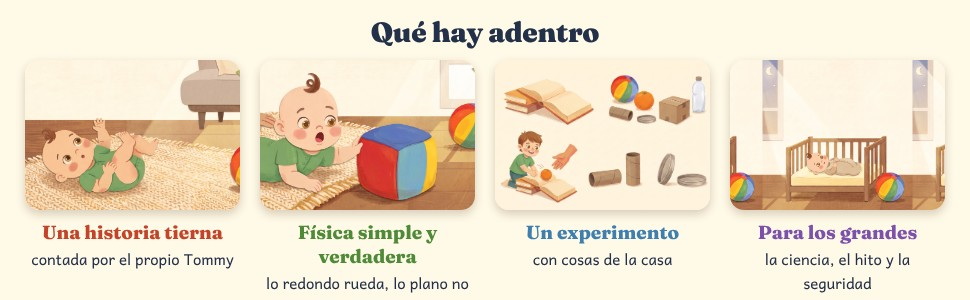
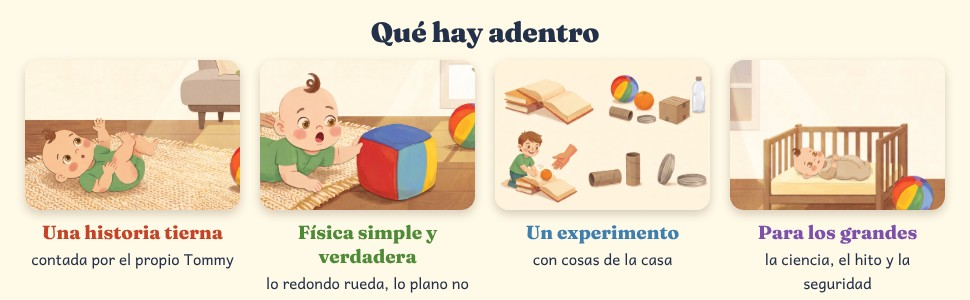
Contenido A+ de los libros 2 y 3 en inglés: imágenes y textos
Claude-Session: https://claude.ai/code/session_01D1pUKWwo8J3jsyg297Aijq

Changed region(s): [[0.7423, 0.18, 0.9897, 0.72]]

diff --git a/maqueta/aplus.py b/maqueta/aplus.py
@@ -1,7 +1,7 @@
 #!/usr/bin/env python3
-"""Imágenes para el contenido A+ de Amazon (libro 1), en inglés y en español neutro.
+"""Imágenes para el contenido A+ de Amazon de cada libro (inglés y español neutro).
 Arma cada imagen en HTML y la saca con el navegador al tamaño exacto que pide Amazon.
-Uso: python3 maqueta/aplus.py → kdp/aplus/libro1-<lang>-*.jpg
+Uso: python3 maqueta/aplus.py [N-lang ...] (sin nada: todos) → kdp/aplus/libroN-<lang>-*.jpg
 Las tapas de la serie salen de los PDF de tapa (kdp/aplus/tapas/libroN-<lang>.jpg)."""
 import html, subprocess, json
 from pathlib import Path
@@ -15,8 +15,8 @@ e = html.escape
 COLS = ["#D9452B", "#EE8A2A", "#E9B21C", "#5E9E44", "#4FA3D9", "#8A5CB8"]
 FUENTES = '<link href="https://fonts.googleapis.com/css2?family=Andika:wght@400;700&family=Fraunces:opsz,wght@9..144,700;9..144,800;9..144,900&display=swap" rel="stylesheet">'
 
-T = {
-    "en": {
+LIBROS = {
+    (1, "en"): {
         "serie": "I Grow, I Discover · Book 1",
         "titulo": "Tommy Learns to Roll Over",
         "lema": "Big science for little ones",
@@ -33,7 +33,7 @@ T = {
         "libros": ["Roll Over", "Sit Up", "Crawl", "Stand Up"],
         "mas": "More books coming soon",
     },
-    "es": {
+    (1, "es"): {
         "serie": "Así crezco, así descubro · Libro 1",
         "titulo": "Tommy aprende a girar",
         "lema": "Gran ciencia para los más pequeños",
@@ -52,6 +52,26 @@ T = {
     },
 }
 
+COMUN_EN = {"lema": "Big science for little ones", "edad": "Ages 4–7 · Read aloud", "adentro_t": "What's inside",
+            "serie_t": "Follow Tommy as he grows", "serie_b": "One milestone, one physics idea and one math idea in every book.",
+            "libros": ["Roll Over", "Sit Up", "Crawl", "Stand Up"], "mas": "More books coming soon"}
+LIBROS[(2, "en")] = {**COMUN_EN,
+    "serie": "I Grow, I Discover · Book 2", "titulo": "Tommy Learns to Sit Up",
+    "bajada": "A read-aloud picture book about sitting up for the first time, and the secret of balance.",
+    "cuadros": [("l2-d04-v1.jpg", "68% 50%"), ("l2-d07-v1.jpg", "72% 50%"), ("l2-exp-v1.jpg", "0% 50%")],
+    "adentro": [("l2-d03-v1.jpg", "85% 60%", "A gentle story", "told by Tommy himself"),
+                ("l2-d05-v1.jpg", "80% 60%", "Real, simple physics", "a wide base doesn't fall"),
+                ("l2-exp-v1.jpg", "0% 50%", "A home experiment", "with things from home"),
+                ("l2-p24-v1.jpg", "50% 60%", "A page for grown-ups", "science, milestone and safety")]}
+LIBROS[(3, "en")] = {**COMUN_EN,
+    "serie": "I Grow, I Discover · Book 3", "titulo": "Tommy Learns to Crawl",
+    "bajada": "A read-aloud picture book about crawling, and the friction that keeps little hands from slipping.",
+    "cuadros": [("l3-d06.jpg", "88% 50%"), ("l3-d07.jpg", "33% 50%"), ("l3-exp.jpg", "0% 0%")],
+    "adentro": [("l3-d02.jpg", "75% 60%", "A gentle story", "told by Tommy himself"),
+                ("l3-d08.jpg", "0% 50%", "Real, simple physics", "friction keeps us from slipping"),
+                ("l3-exp.jpg", "0% 30%", "A home experiment", "with things from home"),
+                ("l3-p24.jpg", "50% 60%", "A page for grown-ups", "science, milestone and safety")]}
+
 BASE = f"""<!doctype html><html><head><meta charset="utf-8">{FUENTES}<style>
 *{{box-sizing:border-box}}body{{margin:0;font-family:Andika,sans-serif;color:#23304A}}
 .lienzo{{position:relative;overflow:hidden;background:#FFF9E7}}
@@ -63,7 +83,7 @@ h1,h2{{font-family:Fraunces,serif;font-weight:900;margin:0;line-height:1;letter-
 
 def cabecera(t):
     return BASE + f"""<div class="lienzo" style="width:970px;height:600px">
-<div class="foto" style="position:absolute;left:40px;top:40px;width:520px;height:520px;background-image:url({TAPAS}/libro1-{LANG}.jpg)"></div>
+<div class="foto" style="position:absolute;left:40px;top:40px;width:520px;height:520px;background-image:url({TAPAS}/libro{N}-{LANG}.jpg)"></div>
 <div style="position:absolute;left:600px;top:70px;width:330px">
 <div class="col" style="font-size:14px">{e(t['serie'])}</div>
 <h2 style="font-size:46px;margin-top:16px">{e(t['lema'])}</h2>
@@ -73,12 +93,12 @@ def cabecera(t):
 
 
 def cuadro(img, pos):
-    return BASE + f'<div class="lienzo" style="width:300px;height:300px;background:url({IMG}/{img}) {pos}/auto 100%"></div></body></html>'
+    return BASE + f'<div class="lienzo" style="width:300px;height:300px;background:url({IMG}/{img}) {pos}/cover no-repeat"></div></body></html>'
 
 
 def adentro(t):
     tiles = "".join(
-        f'<div style="width:215px;text-align:center"><div class="foto" style="width:215px;height:150px;background:url({IMG}/{img}) {pos}/auto 100%"></div>'
+        f'<div style="width:215px;text-align:center"><div class="foto" style="width:215px;height:150px;background:url({IMG}/{img}) {pos}/cover no-repeat"></div>'
         f'<div style="font-family:Fraunces,serif;font-weight:800;font-size:19px;margin-top:10px;color:{['#C4442A', '#4E8A37', '#3F7FB0', '#7D51AB'][k]}">{e(a)}</div>'
         f'<div style="font-size:15px;margin-top:3px">{e(b)}</div></div>'
         for k, (img, pos, a, b) in enumerate(t["adentro"]))
@@ -108,13 +128,16 @@ JS = """const { chromium } = require('playwright');
 
 if __name__ == "__main__":
     trabajos = []
-    for LANG, t in T.items():
+    import sys
+    elegidos = [(int(a.split("-")[0]), a.split("-")[1]) for a in sys.argv[1:]] or list(LIBROS)
+    for (N, LANG) in elegidos:
+        t = LIBROS[(N, LANG)]
         piezas = [("1-cabecera", cabecera(t), 970, 600), ("3-adentro", adentro(t), 970, 300), ("4-serie", serie(t), 970, 600)]
         piezas += [(f"2-cuadro{k + 1}", cuadro(*c), 300, 300) for k, c in enumerate(t["cuadros"])]
         for nombre, doc, w, h in piezas:
-            f = SALIDA / f"libro1-{LANG}-{nombre}.html"
+            f = SALIDA / f"libro{N}-{LANG}-{nombre}.html"
             f.write_text(doc, encoding="utf-8")
-            trabajos.append([str(f), str(SALIDA / f"libro1-{LANG}-{nombre}.jpg"), w, h])
+            trabajos.append([str(f), str(SALIDA / f"libro{N}-{LANG}-{nombre}.jpg"), w, h])
     js = SALIDA / "capturar.js"
     js.write_text(JS, encoding="utf-8")
     subprocess.run(["node", str(js), json.dumps(trabajos)], check=True, cwd=AQUI)

diff --git a/kdp/aplus/README.md b/kdp/aplus/README.md
@@ -53,3 +53,65 @@ Texto alternativo (alt text) de cada imagen: una frase que describa la imagen, s
 | Cuadro 3 | A child testing what rolls down a ramp made of books | Un chico prueba qué rueda por una rampa hecha con libros |
 | Adentro | What's inside: a story, simple physics, an experiment, and a page for grown-ups | Qué hay adentro: una historia, física simple, un experimento y una página para los grandes |
 | Serie | The first four books of the I Grow, I Discover series | Los primeros cuatro libros de la serie Así crezco, así descubro |
+
+---
+
+# Libro 2 · inglés (Tommy Learns to Sit Up)
+
+Mismos 4 módulos y en el mismo orden que el libro 1, con las imágenes `libro2-en-…`. El módulo de la serie (`libro2-en-4-serie.jpg`) es igual al del libro 1. Content name: **Tommy Book 2 – EN**.
+
+**Módulo 1 · Standard Image Header With Text**
+- **Headline (arriba):** Sitting up is a balancing act
+- **Headline (abajo):** Tommy wants to see everything from higher up
+- **Body text:** Tommy can already roll over, but today he's going to learn to sit up… even if he tips over at first. FLOP! With Rula, his big colorful ball, he discovers the secret of balance: a wide base doesn't fall. And from his new spot on the blanket, he learns what's tall and short, near and far. A gentle read-aloud story for curious kids ages 4 to 7, with a hands-on experiment and a page for grown-ups.
+
+**Módulo 2 · Standard Three Images & Text**
+- **Headline del módulo:** Learning through play
+- **Imagen 1 · Headline:** A wide base doesn't fall · **Body:** Tommy spreads his legs and puts his hands down in front of him, like a little three-legged stool, and this time he stays sitting up.
+- **Imagen 2 · Headline:** Near and far · **Body:** Sitting up, everything looks different. Rula is near: Tommy can touch it without stretching. Then he pushes it, and it rolls far away!
+- **Imagen 3 · Headline:** Try it at home · **Body:** A simple, safe experiment with cups, cardboard rolls, a box, and a ball: what tips over, and what can hold a book on top?
+
+**Módulo 3 · What's inside** (`libro2-en-3-adentro.jpg`): headline y body vacíos.
+
+**Módulo 4 · Standard Image Header With Text** (`libro2-en-4-serie.jpg`): los mismos textos que en el libro 1 (Follow Tommy as he grows / I Grow, I Discover / Each book follows Tommy…).
+
+**Textos alternativos**
+| Imagen | Alt text |
+| --- | --- |
+| Cabecera | Cover of Tommy Learns to Sit Up: a baby sitting on a rug next to a colorful ball |
+| Cuadro 1 | Baby Tommy sitting with his legs apart, a dotted triangle showing his wide base |
+| Cuadro 2 | Baby Tommy sitting up and hugging his big colorful ball |
+| Cuadro 3 | Cups, cardboard rolls and a ball with a book sliding off it |
+| Adentro | What's inside: a story, simple physics, an experiment, and a page for grown-ups |
+| Serie | The first four books of the I Grow, I Discover series |
+
+---
+
+# Libro 3 · inglés (Tommy Learns to Crawl)
+
+Mismos 4 módulos, con las imágenes `libro3-en-…`. Content name: **Tommy Book 3 – EN**.
+
+**Módulo 1 · Standard Image Header With Text**
+- **Headline (arriba):** The science of crawling
+- **Headline (abajo):** Rula always gets away!
+- **Body text:** So Tommy is going to learn to crawl. He rocks forward and back, goes backward by mistake, and slips on the shiny hallway floor. WHOOSH! Then he discovers friction, the thing that keeps his hands and knees from slipping on the rug. And he counts: one hand, two hands, one knee, two knees. Four! A gentle read-aloud story for curious kids ages 4 to 7, with a hands-on experiment and a page for grown-ups.
+
+**Módulo 2 · Standard Three Images & Text**
+- **Headline del módulo:** Learning through play
+- **Imagen 1 · Headline:** Friction helps us grip · **Body:** On the fuzzy rug, Tommy's hands and knees don't slip. That grip is called friction, and it's what lets him crawl.
+- **Imagen 2 · Headline:** Hand, knee. Hand, knee. · **Body:** One hand, two hands, one knee, two knees: four! Tommy rocks, slips, tries again… and finally crawls all the way to Rula.
+- **Imagen 3 · Headline:** Try it at home · **Body:** A simple, safe experiment with books, a towel, and a ball: where does the ball roll farther, on the smooth floor or on the towel?
+
+**Módulo 3 · What's inside** (`libro3-en-3-adentro.jpg`): headline y body vacíos.
+
+**Módulo 4 · Standard Image Header With Text** (`libro3-en-4-serie.jpg`): los mismos textos que en el libro 1.
+
+**Textos alternativos**
+| Imagen | Alt text |
+| --- | --- |
+| Cabecera | Cover of Tommy Learns to Crawl: a baby crawling on a rug toward a colorful ball |
+| Cuadro 1 | Baby Tommy crawling on a fuzzy rug |
+| Cuadro 2 | Baby Tommy crawling, hand and knee, across the rug |
+| Cuadro 3 | A ball rolling down a ramp of books, and two little hands on a smooth floor |
+| Adentro | What's inside: a story, simple physics, an experiment, and a page for grown-ups |
+| Serie | The first four books of the I Grow, I Discover series |
